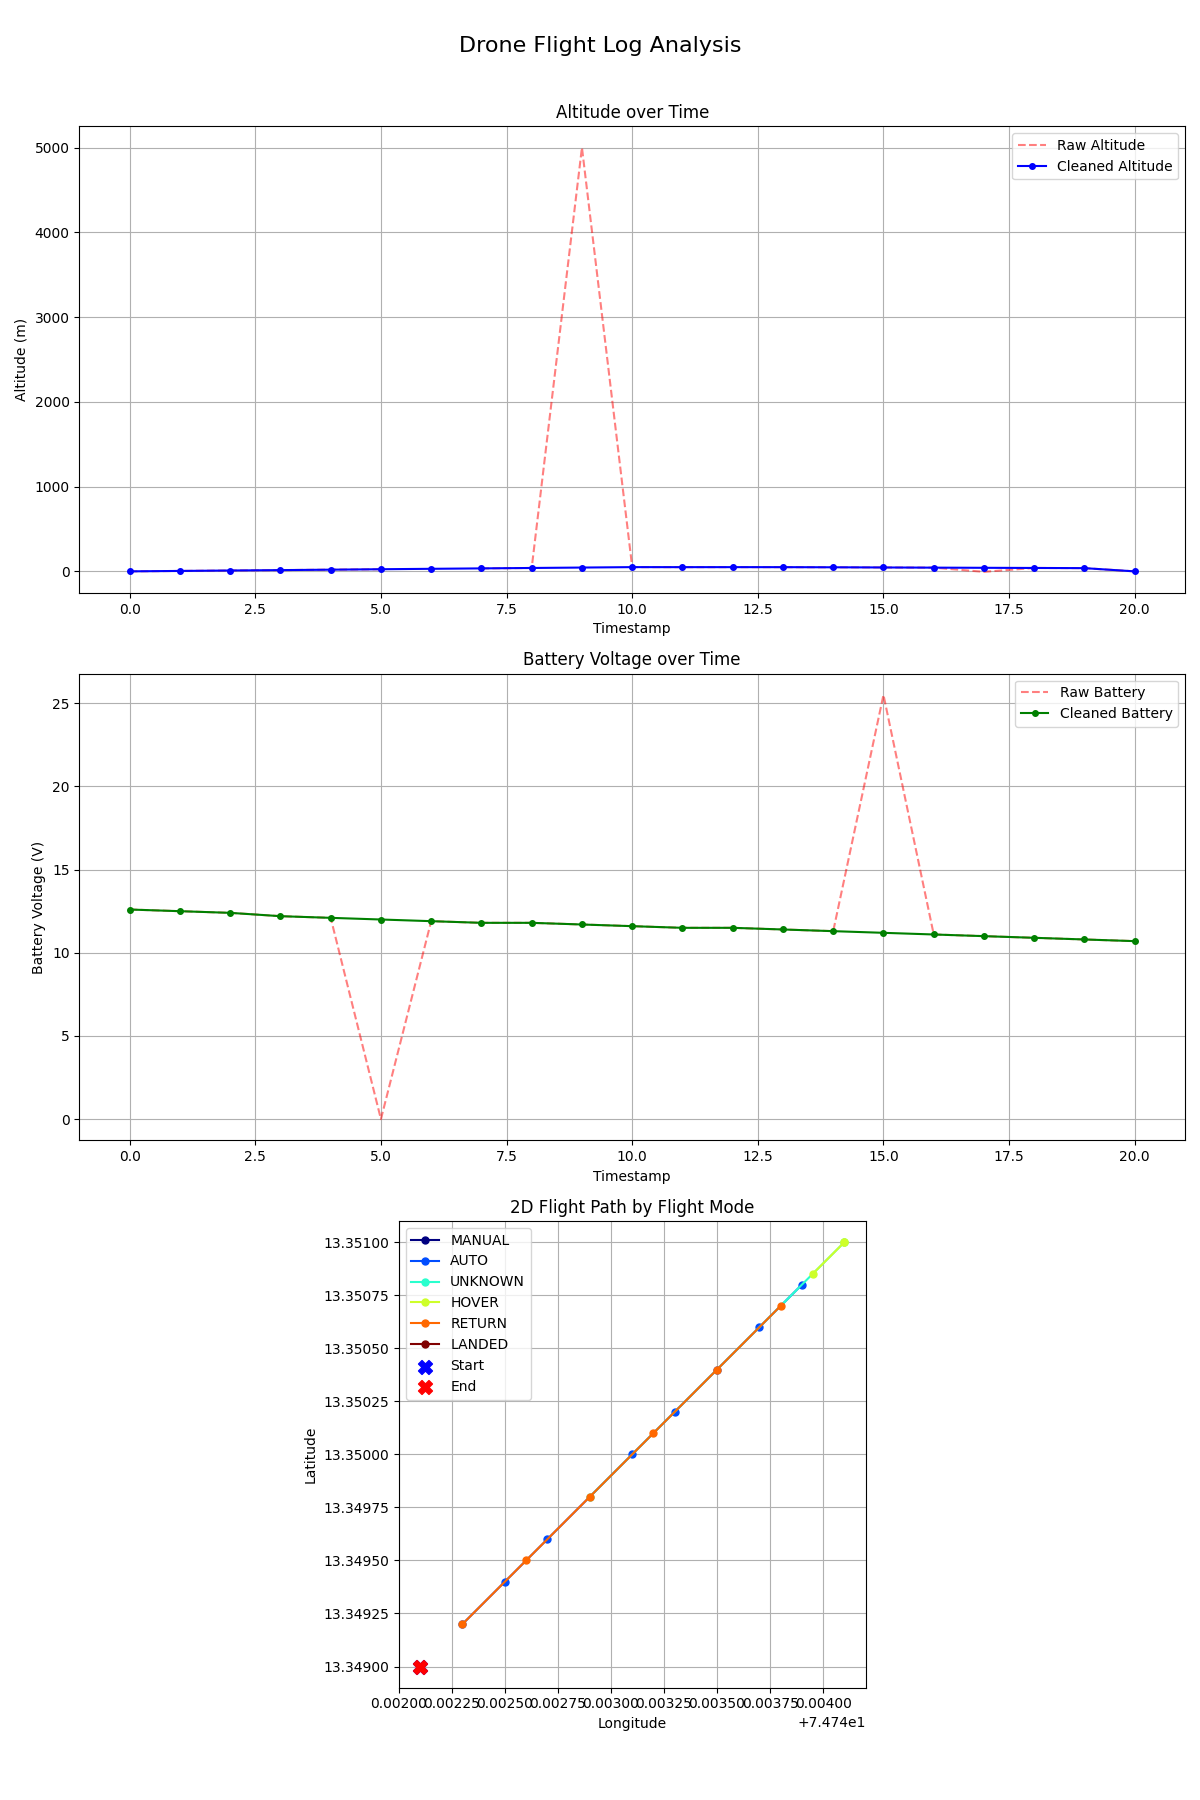
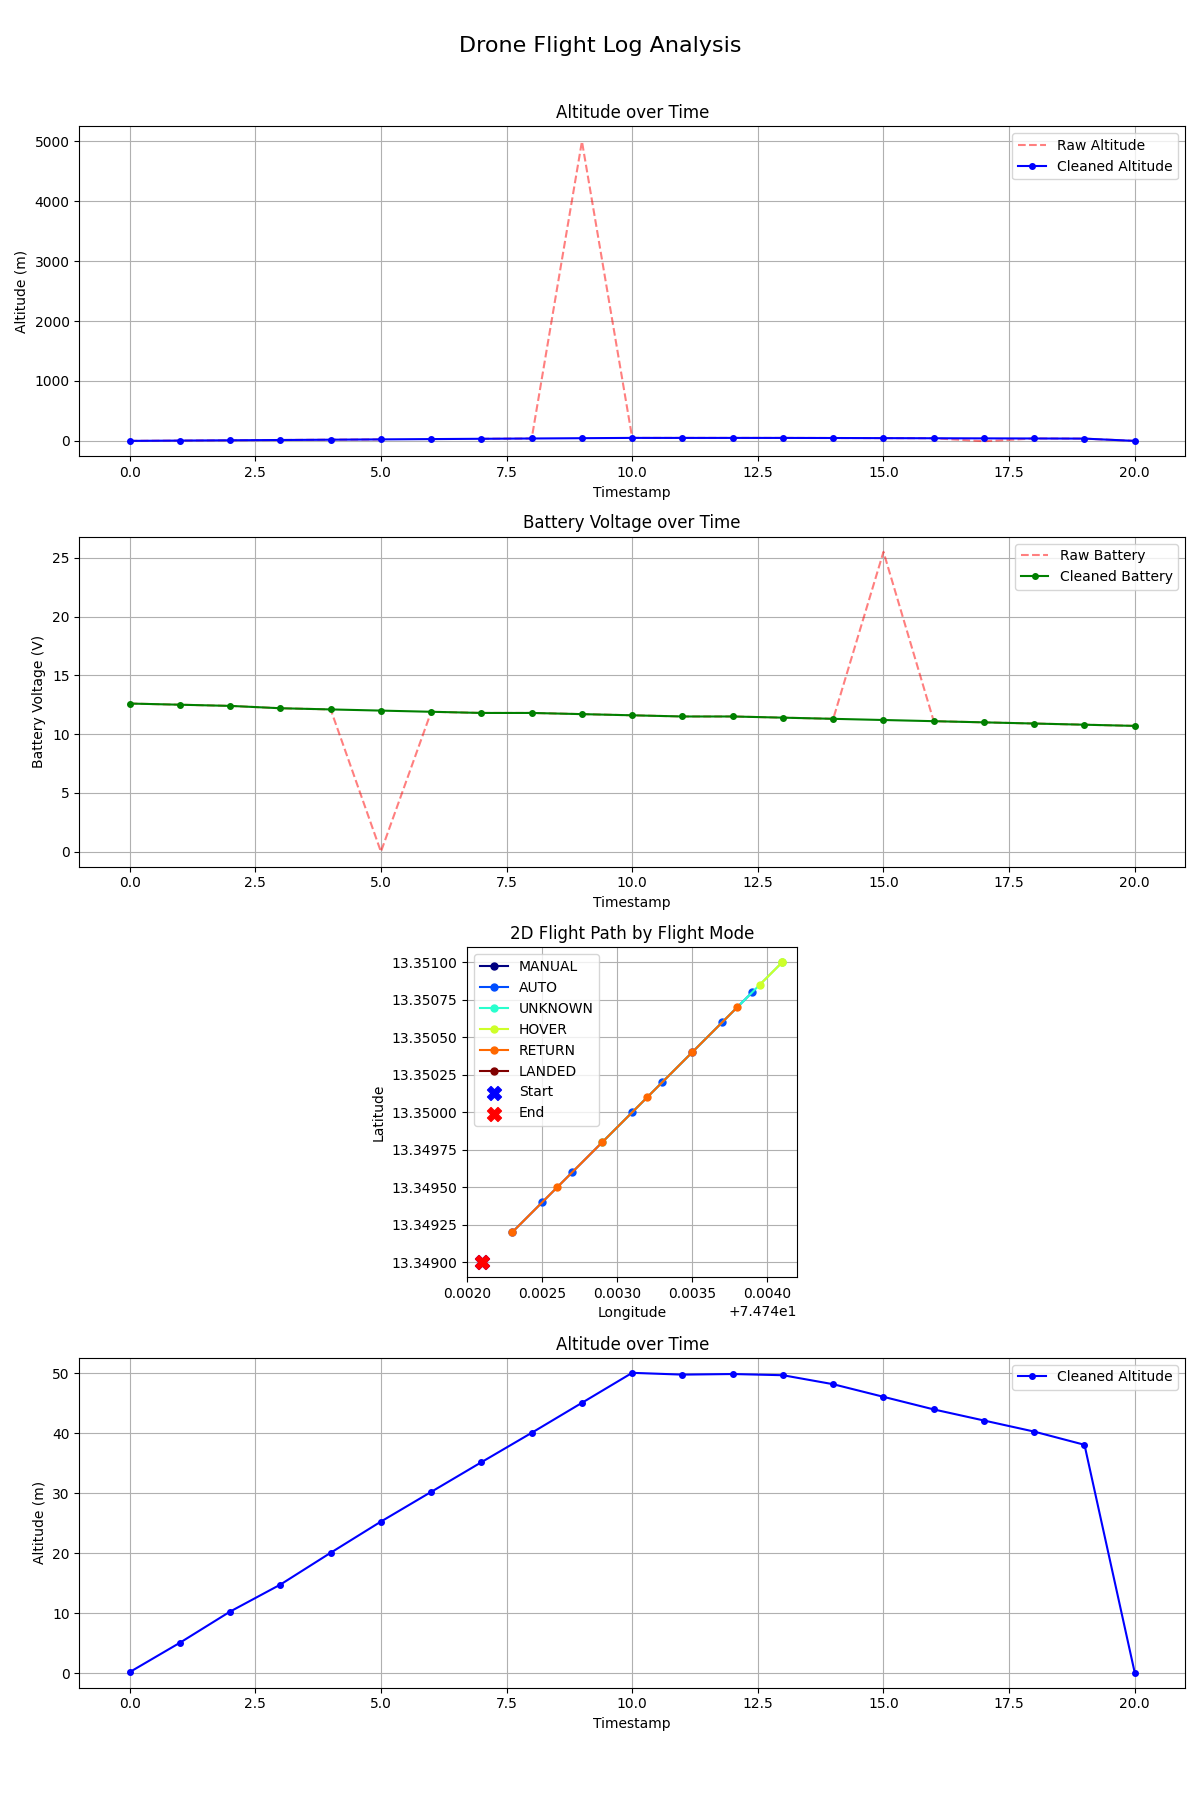
Added altitude over time cleaned only plot also

diff --git a/data_solved.py b/data_solved.py
@@ -27,7 +27,7 @@ try:
     cleaned_stats = df[['altitude_m', 'battery_voltage', 'latitude', 'longitude']].describe()
     print(cleaned_stats)
 
-    fig, (ax1, ax2, ax3) = plt.subplots(3, 1, figsize=(12, 18))
+    fig, (ax1, ax2, ax3, ax4) = plt.subplots(4, 1, figsize=(12, 18))
     fig.suptitle('Drone Flight Log Analysis', fontsize=16)
 
     ax1.plot(raw_df['timestamp'], altitude_raw, 'r--', label='Raw Altitude', alpha=0.5)
@@ -49,6 +49,13 @@ try:
     ax3.set_title('2D Flight Path by Flight Mode')
     ax3.set_xlabel('Longitude')
     ax3.set_ylabel('Latitude')
+
+    ax4.plot(df['timestamp'], df['altitude_m'], 'b-', marker='o', markersize=4, label='Cleaned Altitude')
+    ax4.set_title('Altitude over Time')
+    ax4.set_xlabel('Timestamp')
+    ax4.set_ylabel('Altitude (m)')
+    ax4.legend()
+    ax4.grid(True)
     
     modes = df['flight_mode'].unique()
     colors = plt.cm.jet(np.linspace(0, 1, len(modes)))
